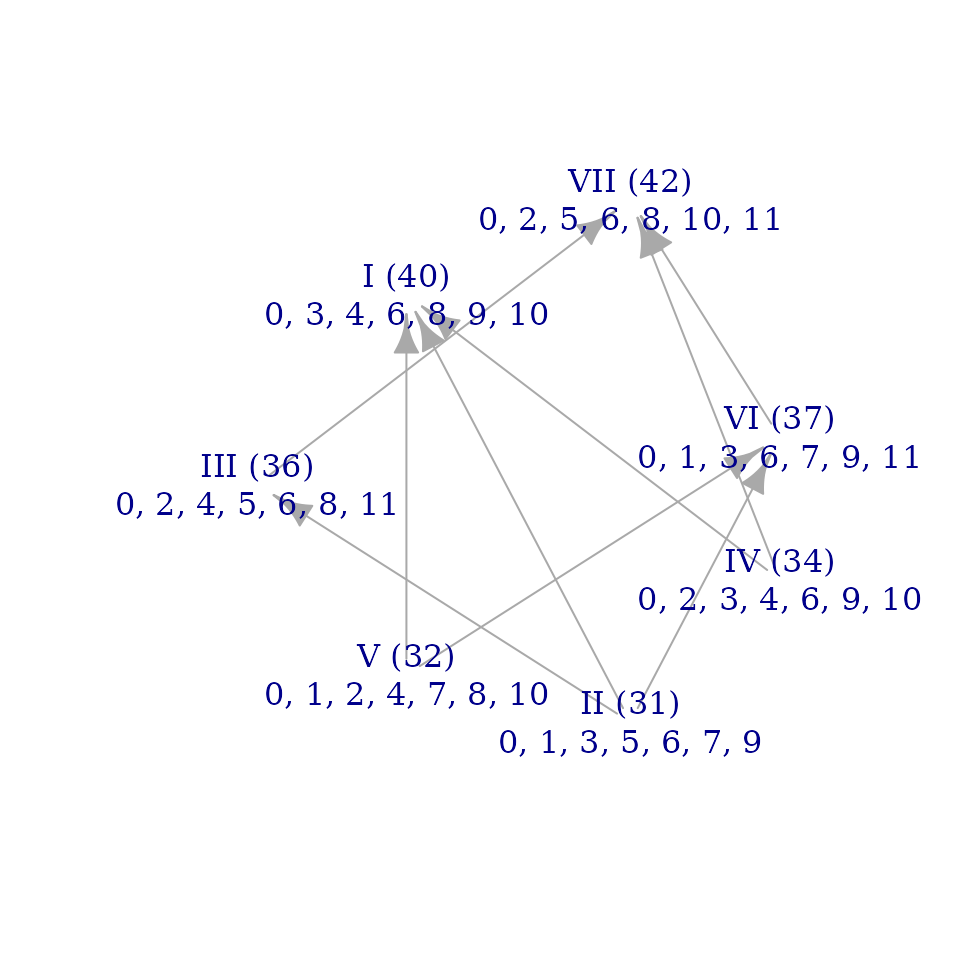
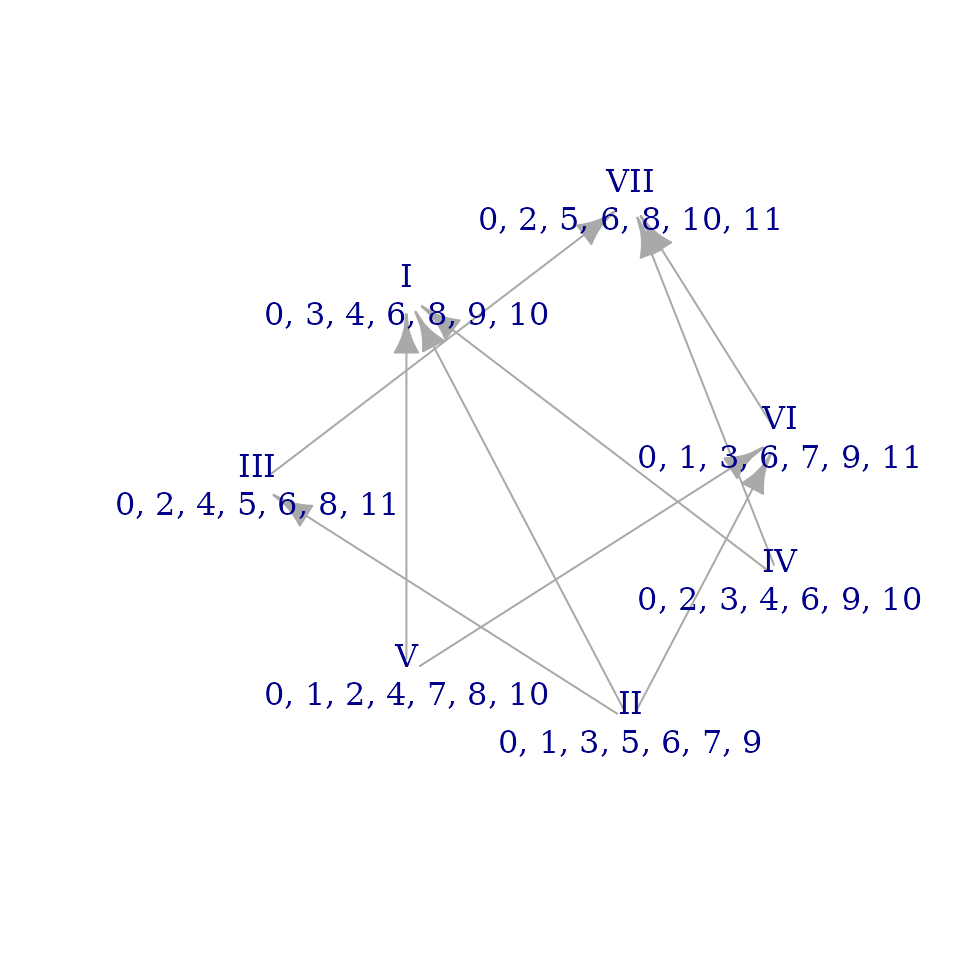
Deploying to gh-pages from @ satbq/musicMCT@4e9417a305802aafc01e618d20c114a3e85759a2 🚀

diff --git a/articles/musicMCT.html b/articles/musicMCT.html
@@ -143,9 +143,9 @@ on. For familiar sets in 12edo (12 <strong>e</strong>qual
 <strong>d</strong>ivisions of the <strong>o</strong>ctave), these are
 all integers. Later we’ll see that it’s easy to work with integers in
 any k edo. But the values that define our scales don’t have to be
-integers at all: Modal Color Theory works in continuous pitch-class
-space. For instance, here’s a common just tuning of the major scale
-(Ptolemy’s “intense” or “syntonic” diatonic):</p>
+integers at all: Modal Color Theory works in continuous pitch space. For
+instance, here’s a common just tuning of the major scale (Ptolemy’s
+“intense” or “syntonic” diatonic):</p>
 <div class="sourceCode" id="cb4"><pre class="downlit sourceCode r">
 <code class="sourceCode R"><span><span class="fu"><a href="../reference/j.html">j</a></span><span class="op">(</span><span class="va">dia</span><span class="op">)</span></span>
 <span><span class="co">#&gt; [1]  0.000000  2.039100  3.863137  4.980450  7.019550  8.843587 10.882687</span></span></code></pre></div>
@@ -757,20 +757,19 @@ command above, you should get an identical graph with the roman numeral
 labels shifted around.) Either way, the precise pitch values for all the
 nodes are the same: the bottom mode in both graphs is (0, 1, 3, 4, 6, 8,
 10).</p>
-<p>The less trivial difference between the article and graph vignettes
-is their overall shape. The function <code><a href="../reference/brightnessgraph.html">brightnessgraph()</a></code>
-determines the vertical position of graph nodes exactly as “Modal Color
-Theory” describes, but it has less guidance for how to make decisions
-about left-right placement of nodes. It produces graphs that are usually
-legible but which may not clarify the underlying structure: I tend to
-use the function as a first draft and then construct my own (ideally
-more revealing) graphs by hand. For instance, the Figure 2b of “Modal
-Color Theory” represents all <span class="math inline">\(T_2\)</span>
-relationships as vertical arrows, resulting in a graph whose overall
-shape is a trapezoid. <code><a href="../reference/brightnessgraph.html">brightnessgraph()</a></code> obscures the
-predominance of <span class="math inline">\(T_2\)</span> in the
-structure of the scale by making the chain of whole steps bow out to the
-left at the middle, giving the graph a diamond-like shape.</p>
+<p>The less trivial difference between the article’s and vignette’s
+graphs is their overall shape. The function
+<code><a href="../reference/brightnessgraph.html">brightnessgraph()</a></code> determines the vertical position of graph
+nodes exactly as “Modal Color Theory” describes, but it has less
+guidance for how to make decisions about left-right placement of nodes.
+It produces graphs that are usually legible but which may not clarify
+the underlying structure: I tend to use the function as a first draft
+and then construct my own (ideally more revealing) graphs by hand. For
+instance, the Figure 2b of “Modal Color Theory” represents all <span class="math inline">\(T_2\)</span> relationships as vertical arrows,
+resulting in a graph whose overall shape is a trapezoid.
+<code><a href="../reference/brightnessgraph.html">brightnessgraph()</a></code> obscures the predominance of <span class="math inline">\(T_2\)</span> in the structure of the scale by
+making the chain of whole steps bow out to the left at the middle,
+giving the graph a diamond-like shape.</p>
 <p>Let’s now take a look at the brightness graph for the
 <code>overtone_scale</code>:</p>
 <div class="sourceCode" id="cb35"><pre class="downlit sourceCode r">
@@ -820,7 +819,7 @@ range of possible structures for seven note scales. Simply change the
 number <code>4</code> in the line of code below to any value from
 <code>1</code> to <code>7</code> to check the different scales:</p>
 <div class="sourceCode" id="cb37"><pre class="downlit sourceCode r">
-<code class="sourceCode R"><span><span class="fu"><a href="../reference/brightnessgraph.html">brightnessgraph</a></span><span class="op">(</span><span class="va">final_quantizations</span><span class="op">[</span>, <span class="fl">4</span><span class="op">]</span><span class="op">)</span></span></code></pre></div>
+<code class="sourceCode R"><span><span class="fu"><a href="../reference/brightnessgraph.html">brightnessgraph</a></span><span class="op">(</span><span class="va">final_quantizations</span><span class="op">[</span>, <span class="fl">4</span><span class="op">]</span>, show_sums<span class="op">=</span><span class="cn">FALSE</span><span class="op">)</span></span></code></pre></div>
 <p><img src="musicMCT_files/figure-html/unnamed-chunk-37-1.png" class="r-plt" alt="A brightness graph for the scale 0 3 4 6 8 9 10. It has more arrows than the graph for the overtone scale, but it arranges them in a less regular pattern than the graph for the acoustic scale." width="480"></p>
 <p>Finally, let’s take a look at the brightness graph for our
 <code>best_simple_approximation</code>. I’m going to suppress its
@@ -837,7 +836,7 @@ adjacency in the previous section. This is something I like about
 brightness graphs: they summarize, in a picture or two, ideas that take
 several thousand words to describe.</p>
 <hr>
-<p><strong>Last updated:</strong> 9 May 2026</p>
+<p><strong>Last updated:</strong> 10 May 2026</p>
 </div>
   </main><aside class="col-md-3"><nav id="toc" aria-label="Table of contents"><h2>On this page</h2>
     </nav></aside>

diff --git a/reference/colornum.html b/reference/colornum.html
@@ -7,8 +7,8 @@
   };
 </script><script src="../deps/jquery-3.6.0/jquery-3.6.0.min.js"></script><meta name="viewport" content="width=device-width, initial-scale=1, shrink-to-fit=no"><link href="../deps/bootstrap-5.3.1/bootstrap.min.css" rel="stylesheet"><script src="../deps/bootstrap-5.3.1/bootstrap.bundle.min.js"></script><link href="../deps/font-awesome-6.5.2/css/all.min.css" rel="stylesheet"><link href="../deps/font-awesome-6.5.2/css/v4-shims.min.css" rel="stylesheet"><script src="../deps/headroom-0.11.0/headroom.min.js"></script><script src="../deps/headroom-0.11.0/jQuery.headroom.min.js"></script><script src="../deps/bootstrap-toc-1.0.1/bootstrap-toc.min.js"></script><script src="../deps/clipboard.js-2.0.11/clipboard.min.js"></script><script src="../deps/search-1.0.0/autocomplete.jquery.min.js"></script><script src="../deps/search-1.0.0/fuse.min.js"></script><script src="../deps/search-1.0.0/mark.min.js"></script><!-- pkgdown --><script src="../pkgdown.js"></script><meta property="og:title" content="Reference numbers for scale structures — colornum"><meta name="description" content="As described on p. 28 of &quot;Modal Color Theory,&quot; it's convenient to have a
 systematic labeling system (&quot;color numbers&quot;) to refer to the distinct colors
-in the hyperplane arrangements. This serves a similar function as Forte's
-set class numbers do in traditional pitch-class set theory. Color numbers
+in the hyperplane arrangements. This serves a similar function to Forte's
+set-class numbers in traditional pitch-class set theory. Color numbers
 are defined with reference to a complete list of the possible sign vectors
 for each cardinality, so they depend on the extensive prior computation
 that is stored in the object representative_signvectors. (This is a large
@@ -17,8 +17,8 @@ downloaded separately, saved in your working directory, and loaded by entering
 representative_signvectors &amp;lt;- readRDS(&quot;representative_signvectors.rds&quot;).
 Color numbers are currently only defined for scales with 7 or fewer notes."><meta property="og:description" content="As described on p. 28 of &quot;Modal Color Theory,&quot; it's convenient to have a
 systematic labeling system (&quot;color numbers&quot;) to refer to the distinct colors
-in the hyperplane arrangements. This serves a similar function as Forte's
-set class numbers do in traditional pitch-class set theory. Color numbers
+in the hyperplane arrangements. This serves a similar function to Forte's
+set-class numbers in traditional pitch-class set theory. Color numbers
 are defined with reference to a complete list of the possible sign vectors
 for each cardinality, so they depend on the extensive prior computation
 that is stored in the object representative_signvectors. (This is a large
@@ -67,8 +67,8 @@ Color numbers are currently only defined for scales with 7 or fewer notes."><met
     <div class="ref-description section level2">
     <p>As described on p. 28 of "Modal Color Theory," it's convenient to have a
 systematic labeling system ("color numbers") to refer to the distinct colors
-in the hyperplane arrangements. This serves a similar function as Forte's
-set class numbers do in traditional pitch-class set theory. Color numbers
+in the hyperplane arrangements. This serves a similar function to Forte's
+set-class numbers in traditional pitch-class set theory. Color numbers
 are defined with reference to a complete list of the possible sign vectors
 for each cardinality, so they depend on the extensive prior computation
 that is stored in the object <code>representative_signvectors</code>. (This is a large

diff --git a/reference/make_infrared_ineqmat.html b/reference/make_infrared_ineqmat.html
@@ -8,9 +8,9 @@
 </script><script src="../deps/jquery-3.6.0/jquery-3.6.0.min.js"></script><meta name="viewport" content="width=device-width, initial-scale=1, shrink-to-fit=no"><link href="../deps/bootstrap-5.3.1/bootstrap.min.css" rel="stylesheet"><script src="../deps/bootstrap-5.3.1/bootstrap.bundle.min.js"></script><link href="../deps/font-awesome-6.5.2/css/all.min.css" rel="stylesheet"><link href="../deps/font-awesome-6.5.2/css/v4-shims.min.css" rel="stylesheet"><script src="../deps/headroom-0.11.0/headroom.min.js"></script><script src="../deps/headroom-0.11.0/jQuery.headroom.min.js"></script><script src="../deps/bootstrap-toc-1.0.1/bootstrap-toc.min.js"></script><script src="../deps/clipboard.js-2.0.11/clipboard.min.js"></script><script src="../deps/search-1.0.0/autocomplete.jquery.min.js"></script><script src="../deps/search-1.0.0/fuse.min.js"></script><script src="../deps/search-1.0.0/mark.min.js"></script><!-- pkgdown --><script src="../pkgdown.js"></script><meta property="og:title" content="Define hyperplanes for infrared arrangements — make_infrared_ineqmat"><meta name="description" content="The &quot;infrared&quot; hyperplane arrangements are in some sense
 an extension of the &quot;pastel&quot; arrangements to be more like the
 Rothenberg arrangements. (This is the sense of the color-conceit
-name for the arrangments: they contain red-like colors that we
+name for the arrangements: they contain red-like colors that we
 don't see in ordinary use of modal color theory.) That is, the
-infrared arrangment for a given color contains all the pastel hyperplanes
+infrared arrangement for a given color contains all the pastel hyperplanes
 (except those filtered out when include_wraparound=FALSE),
 plus additional ones that make comparisons between generic intervals
 of different sizes (as the Rothenberg arrangements do). Unlike the
@@ -22,9 +22,9 @@ This family of arrangements is conceived primarily for the study
 of voice leadings rather than scales themselves."><meta property="og:description" content="The &quot;infrared&quot; hyperplane arrangements are in some sense
 an extension of the &quot;pastel&quot; arrangements to be more like the
 Rothenberg arrangements. (This is the sense of the color-conceit
-name for the arrangments: they contain red-like colors that we
+name for the arrangements: they contain red-like colors that we
 don't see in ordinary use of modal color theory.) That is, the
-infrared arrangment for a given color contains all the pastel hyperplanes
+infrared arrangement for a given color contains all the pastel hyperplanes
 (except those filtered out when include_wraparound=FALSE),
 plus additional ones that make comparisons between generic intervals
 of different sizes (as the Rothenberg arrangements do). Unlike the
@@ -76,9 +76,9 @@ of voice leadings rather than scales themselves."><meta property="og:image" cont
     <p>The "infrared" hyperplane arrangements are in some sense
 an extension of the "pastel" arrangements to be more like the
 Rothenberg arrangements. (This is the sense of the color-conceit
-name for the arrangments: they contain red-like colors that we
+name for the arrangements: they contain red-like colors that we
 don't see in ordinary use of modal color theory.) That is, the
-infrared arrangment for a given color contains all the pastel hyperplanes
+infrared arrangement for a given color contains all the pastel hyperplanes
 (except those filtered out when <code>include_wraparound=FALSE</code>),
 plus additional ones that make comparisons between generic intervals
 of different sizes (as the Rothenberg arrangements do). Unlike the

diff --git a/reference/quantize_color.html b/reference/quantize_color.html
@@ -5,13 +5,13 @@
       fontURL: "https://cdn.jsdelivr.net/npm/mathjax@3.2.2/es5/output/chtml/fonts/woff-v2"
     }
   };
-</script><script src="../deps/jquery-3.6.0/jquery-3.6.0.min.js"></script><meta name="viewport" content="width=device-width, initial-scale=1, shrink-to-fit=no"><link href="../deps/bootstrap-5.3.1/bootstrap.min.css" rel="stylesheet"><script src="../deps/bootstrap-5.3.1/bootstrap.bundle.min.js"></script><link href="../deps/font-awesome-6.5.2/css/all.min.css" rel="stylesheet"><link href="../deps/font-awesome-6.5.2/css/v4-shims.min.css" rel="stylesheet"><script src="../deps/headroom-0.11.0/headroom.min.js"></script><script src="../deps/headroom-0.11.0/jQuery.headroom.min.js"></script><script src="../deps/bootstrap-toc-1.0.1/bootstrap-toc.min.js"></script><script src="../deps/clipboard.js-2.0.11/clipboard.min.js"></script><script src="../deps/search-1.0.0/autocomplete.jquery.min.js"></script><script src="../deps/search-1.0.0/fuse.min.js"></script><script src="../deps/search-1.0.0/mark.min.js"></script><!-- pkgdown --><script src="../pkgdown.js"></script><meta property="og:title" content="Find a scale mod k that matches a given color — quantize_color"><meta name="description" content="Modal Color Theory is useful for analyzing scales in continuous pitch-class
-space with irrational values, but sometimes those irrational values can be
+</script><script src="../deps/jquery-3.6.0/jquery-3.6.0.min.js"></script><meta name="viewport" content="width=device-width, initial-scale=1, shrink-to-fit=no"><link href="../deps/bootstrap-5.3.1/bootstrap.min.css" rel="stylesheet"><script src="../deps/bootstrap-5.3.1/bootstrap.bundle.min.js"></script><link href="../deps/font-awesome-6.5.2/css/all.min.css" rel="stylesheet"><link href="../deps/font-awesome-6.5.2/css/v4-shims.min.css" rel="stylesheet"><script src="../deps/headroom-0.11.0/headroom.min.js"></script><script src="../deps/headroom-0.11.0/jQuery.headroom.min.js"></script><script src="../deps/bootstrap-toc-1.0.1/bootstrap-toc.min.js"></script><script src="../deps/clipboard.js-2.0.11/clipboard.min.js"></script><script src="../deps/search-1.0.0/autocomplete.jquery.min.js"></script><script src="../deps/search-1.0.0/fuse.min.js"></script><script src="../deps/search-1.0.0/mark.min.js"></script><!-- pkgdown --><script src="../pkgdown.js"></script><meta property="og:title" content="Find a scale mod k that matches a given color — quantize_color"><meta name="description" content="Modal Color Theory is able to analyze scales in continuous pitch-class
+space, but sometimes irrational values can be
 inconvenient to work with. Therefore it's often quite useful to find a
 scale that has the same color as the one you're studying, but which can
 be represented by integers in some mod k universe. See &quot;Modal Color Theory,&quot;
-27."><meta property="og:description" content="Modal Color Theory is useful for analyzing scales in continuous pitch-class
-space with irrational values, but sometimes those irrational values can be
+27."><meta property="og:description" content="Modal Color Theory is able to analyze scales in continuous pitch-class
+space, but sometimes irrational values can be
 inconvenient to work with. Therefore it's often quite useful to find a
 scale that has the same color as the one you're studying, but which can
 be represented by integers in some mod k universe. See &quot;Modal Color Theory,&quot;
@@ -55,8 +55,8 @@ be represented by integers in some mod k universe. See &quot;Modal Color Theory,
     </div>
 
     <div class="ref-description section level2">
-    <p>Modal Color Theory is useful for analyzing scales in continuous pitch-class
-space with irrational values, but sometimes those irrational values can be
+    <p>Modal Color Theory is able to analyze scales in continuous pitch-class
+space, but sometimes irrational values can be
 inconvenient to work with. Therefore it's often quite useful to find a
 scale that has the same color as the one you're studying, but which can
 be represented by integers in some mod k universe. See "Modal Color Theory,"

diff --git a/reference/quantize_hue.html b/reference/quantize_hue.html
@@ -5,7 +5,7 @@
       fontURL: "https://cdn.jsdelivr.net/npm/mathjax@3.2.2/es5/output/chtml/fonts/woff-v2"
     }
   };
-</script><script src="../deps/jquery-3.6.0/jquery-3.6.0.min.js"></script><meta name="viewport" content="width=device-width, initial-scale=1, shrink-to-fit=no"><link href="../deps/bootstrap-5.3.1/bootstrap.min.css" rel="stylesheet"><script src="../deps/bootstrap-5.3.1/bootstrap.bundle.min.js"></script><link href="../deps/font-awesome-6.5.2/css/all.min.css" rel="stylesheet"><link href="../deps/font-awesome-6.5.2/css/v4-shims.min.css" rel="stylesheet"><script src="../deps/headroom-0.11.0/headroom.min.js"></script><script src="../deps/headroom-0.11.0/jQuery.headroom.min.js"></script><script src="../deps/bootstrap-toc-1.0.1/bootstrap-toc.min.js"></script><script src="../deps/clipboard.js-2.0.11/clipboard.min.js"></script><script src="../deps/search-1.0.0/autocomplete.jquery.min.js"></script><script src="../deps/search-1.0.0/fuse.min.js"></script><script src="../deps/search-1.0.0/mark.min.js"></script><!-- pkgdown --><script src="../pkgdown.js"></script><meta property="og:title" content="Find a scale mod k that matches a given hue — quantize_hue"><meta name="description" content="Given any scale, attempts to find a scale defined as integers mod k
+</script><script src="../deps/jquery-3.6.0/jquery-3.6.0.min.js"></script><meta name="viewport" content="width=device-width, initial-scale=1, shrink-to-fit=no"><link href="../deps/bootstrap-5.3.1/bootstrap.min.css" rel="stylesheet"><script src="../deps/bootstrap-5.3.1/bootstrap.bundle.min.js"></script><link href="../deps/font-awesome-6.5.2/css/all.min.css" rel="stylesheet"><link href="../deps/font-awesome-6.5.2/css/v4-shims.min.css" rel="stylesheet"><script src="../deps/headroom-0.11.0/headroom.min.js"></script><script src="../deps/headroom-0.11.0/jQuery.headroom.min.js"></script><script src="../deps/bootstrap-toc-1.0.1/bootstrap-toc.min.js"></script><script src="../deps/clipboard.js-2.0.11/clipboard.min.js"></script><script src="../deps/search-1.0.0/autocomplete.jquery.min.js"></script><script src="../deps/search-1.0.0/fuse.min.js"></script><script src="../deps/search-1.0.0/mark.min.js"></script><!-- pkgdown --><script src="../pkgdown.js"></script><meta property="og:title" content="Find a scale mod k that matches a given hue — quantize_hue"><meta name="description" content="Given any scale, this function attempts to find a scale defined as integers mod k
 which belongs to the same hue as the input (i.e. would return TRUE
 when same_hue() is applied). This function thus is similar in spirit to
 quantize_color() but seeks a more precise structural match between
@@ -14,7 +14,7 @@ be able to find a suitable quantization (if nmax is set high enough),
 this is not necessarily true for quantize_hue(). There are lines in
 \(\mathbb{R}^n\) which pass through no rational points but the origin, so some hues
 (including ones of musical interest like the 5-limit just diatonic scale)
-may not have any quantization."><meta property="og:description" content="Given any scale, attempts to find a scale defined as integers mod k
+may not have any quantization."><meta property="og:description" content="Given any scale, this function attempts to find a scale defined as integers mod k
 which belongs to the same hue as the input (i.e. would return TRUE
 when same_hue() is applied). This function thus is similar in spirit to
 quantize_color() but seeks a more precise structural match between
@@ -63,7 +63,7 @@ may not have any quantization."><meta property="og:image" content="https://satbq
     </div>
 
     <div class="ref-description section level2">
-    <p>Given any scale, attempts to find a scale defined as integers mod k
+    <p>Given any scale, this function attempts to find a scale defined as integers mod k
 which belongs to the same hue as the input (i.e. would return <code>TRUE</code>
 when <code><a href="same_hue.html">same_hue()</a></code> is applied). This function thus is similar in spirit to
 <code><a href="quantize_color.html">quantize_color()</a></code> but seeks a more precise structural match between

diff --git a/index.html b/index.html
@@ -144,11 +144,6 @@
 <span><span class="fu"><a href="reference/brightnessgraph.html">brightnessgraph</a></span><span class="op">(</span><span class="va">quantized_just_dia</span><span class="op">$</span><span class="va">set</span>, edo<span class="op">=</span><span class="va">quantized_just_dia</span><span class="op">$</span><span class="va">edo</span><span class="op">)</span></span></code></pre></div>
 <p><img src="reference/figures/README-example-1.png" width="75%"></p>
 </div>
-<div class="section level2">
-<h2 id="acknowledgments">Acknowledgments<a class="anchor" aria-label="anchor" href="#acknowledgments"></a>
-</h2>
-<p>Thanks to <a href="https://www.natethetheorist.com/graphic-design" class="external-link">Nate Mitchell</a> for designing the package’s hex sticker logo.</p>
-</div>
 </div>
   </main><aside class="col-md-3"><div class="links">
 <h2 data-toc-skip>Links</h2>

diff --git a/articles/mct_symmetries.html b/articles/mct_symmetries.html
@@ -861,7 +861,7 @@ roundabout rediscovery of the pitch-class multiplication operators <span class="
 <span class="math inline">\(\mathcal{P}_{12}\)</span> of the hyperplane
 arrangement for 12-note scales. Typically, their use in music theory has
 been as operations that trivially fix the equally tempered chromatic
-scale (as “center” of <span class="math inline">\(\mathcal{M_{12}}\)</span>), letting us pay
+scale (as the “center” of <span class="math inline">\(\mathcal{M_{12}}\)</span>), letting us pay
 attention to what happens to its subsets.</p>
 <p>The perspective offered by the symmetry groups <span class="math inline">\(\mathcal{P}_n\)</span> is broader, since it
 applies directly to scale without treating it as a subset of a larger
@@ -939,7 +939,7 @@ indices <span class="math inline">\(i\)</span>. It has been easy to
 confuse the two because, for the chromatic scale, <span class="math inline">\(x_i = i\)</span> given the way we measure specific
 intervals in terms of semitones.</p>
 <hr>
-<p><strong>Last updated:</strong> 9 May 2026</p>
+<p><strong>Last updated:</strong> 10 May 2026</p>
 </div>
   </main><aside class="col-md-3"><nav id="toc" aria-label="Table of contents"><h2>On this page</h2>
     </nav></aside>

diff --git a/reference/make_anaglyph_ineqmat.html b/reference/make_anaglyph_ineqmat.html
@@ -103,7 +103,7 @@ if <code>card</code> is odd.</p>
     <p>Note that, unlike for most other hyperplane arrangements, for
 anaglyph arrangements <code>card</code> is only half the size of the data you're
 working with, since anaglyph arrangements compare <em>two</em> sets of size
-<code>card</code>. In general, when useing anaglyph ineqmats with other functions,
+<code>card</code>. In general, when using anaglyph ineqmats with other functions,
 such as <code><a href="signvector.html">signvector()</a></code> or <code><a href="howfree.html">howfree()</a></code>, you should enter the two sets
 to be compared as a single vector, i.e. <code>c(set, goal)</code>. See the use of
 <code><a href="howfree.html">howfree()</a></code> in the example.</p>

diff --git a/reference/z.html b/reference/z.html
@@ -67,7 +67,7 @@ but <code>edo</code> parameter allows other units.</p>
 
 
 <dl><dt id="arg--">...<a class="anchor" aria-label="anchor" href="#arg--"></a></dt>
-<dd><p>One or more numerics values which represent frequency ratios.</p></dd>
+<dd><p>One or more numerics values that represent frequency ratios.</p></dd>
 
 
 <dt id="arg-edo">edo<a class="anchor" aria-label="anchor" href="#arg-edo"></a></dt>

diff --git a/reference/colornum.md b/reference/colornum.md
@@ -2,14 +2,14 @@
 
 As described on p. 28 of "Modal Color Theory," it's convenient to have a
 systematic labeling system ("color numbers") to refer to the distinct
-colors in the hyperplane arrangements. This serves a similar function as
-Forte's set class numbers do in traditional pitch-class set theory.
-Color numbers are defined with reference to a complete list of the
-possible sign vectors for each cardinality, so they depend on the
-extensive prior computation that is stored in the object
-`representative_signvectors`. (This is a large file that cannot be
-included in the package musicMCT itself. It needs to be downloaded
-separately, saved in your working directory, and loaded by entering
+colors in the hyperplane arrangements. This serves a similar function to
+Forte's set-class numbers in traditional pitch-class set theory. Color
+numbers are defined with reference to a complete list of the possible
+sign vectors for each cardinality, so they depend on the extensive prior
+computation that is stored in the object `representative_signvectors`.
+(This is a large file that cannot be included in the package musicMCT
+itself. It needs to be downloaded separately, saved in your working
+directory, and loaded by entering
 `representative_signvectors <- readRDS("representative_signvectors.rds")`.
 Color numbers are currently only defined for scales with 7 or fewer
 notes.

diff --git a/articles/musicMCT.md b/articles/musicMCT.md
@@ -83,8 +83,8 @@ For familiar sets in 12edo (12 **e**qual **d**ivisions of the
 **o**ctave), these are all integers. Later we’ll see that it’s easy to
 work with integers in any k edo. But the values that define our scales
 don’t have to be integers at all: Modal Color Theory works in continuous
-pitch-class space. For instance, here’s a common just tuning of the
-major scale (Ptolemy’s “intense” or “syntonic” diatonic):
+pitch space. For instance, here’s a common just tuning of the major
+scale (Ptolemy’s “intense” or “syntonic” diatonic):
 
 ``` r
 
@@ -820,8 +820,8 @@ should get an identical graph with the roman numeral labels shifted
 around.) Either way, the precise pitch values for all the nodes are the
 same: the bottom mode in both graphs is (0, 1, 3, 4, 6, 8, 10).
 
-The less trivial difference between the article and graph vignettes is
-their overall shape. The function
+The less trivial difference between the article’s and vignette’s graphs
+is their overall shape. The function
 [`brightnessgraph()`](https://satbq.github.io/musicMCT/reference/brightnessgraph.md)
 determines the vertical position of graph nodes exactly as “Modal Color
 Theory” describes, but it has less guidance for how to make decisions
@@ -909,7 +909,7 @@ different scales:
 
 ``` r
 
-brightnessgraph(final_quantizations[, 4])
+brightnessgraph(final_quantizations[, 4], show_sums=FALSE)
 ```
 
 ![A brightness graph for the scale 0 3 4 6 8 9 10. It has more arrows
@@ -942,4 +942,4 @@ to describe.
 
 ------------------------------------------------------------------------
 
-**Last updated:** 9 May 2026
+**Last updated:** 10 May 2026

diff --git a/reference/quantize_color.md b/reference/quantize_color.md
@@ -1,11 +1,10 @@
 # Find a scale mod k that matches a given color
 
-Modal Color Theory is useful for analyzing scales in continuous
-pitch-class space with irrational values, but sometimes those irrational
-values can be inconvenient to work with. Therefore it's often quite
-useful to find a scale that has the same color as the one you're
-studying, but which can be represented by integers in some mod k
-universe. See "Modal Color Theory," 27.
+Modal Color Theory is able to analyze scales in continuous pitch-class
+space, but sometimes irrational values can be inconvenient to work with.
+Therefore it's often quite useful to find a scale that has the same
+color as the one you're studying, but which can be represented by
+integers in some mod k universe. See "Modal Color Theory," 27.
 
 ## Usage
 